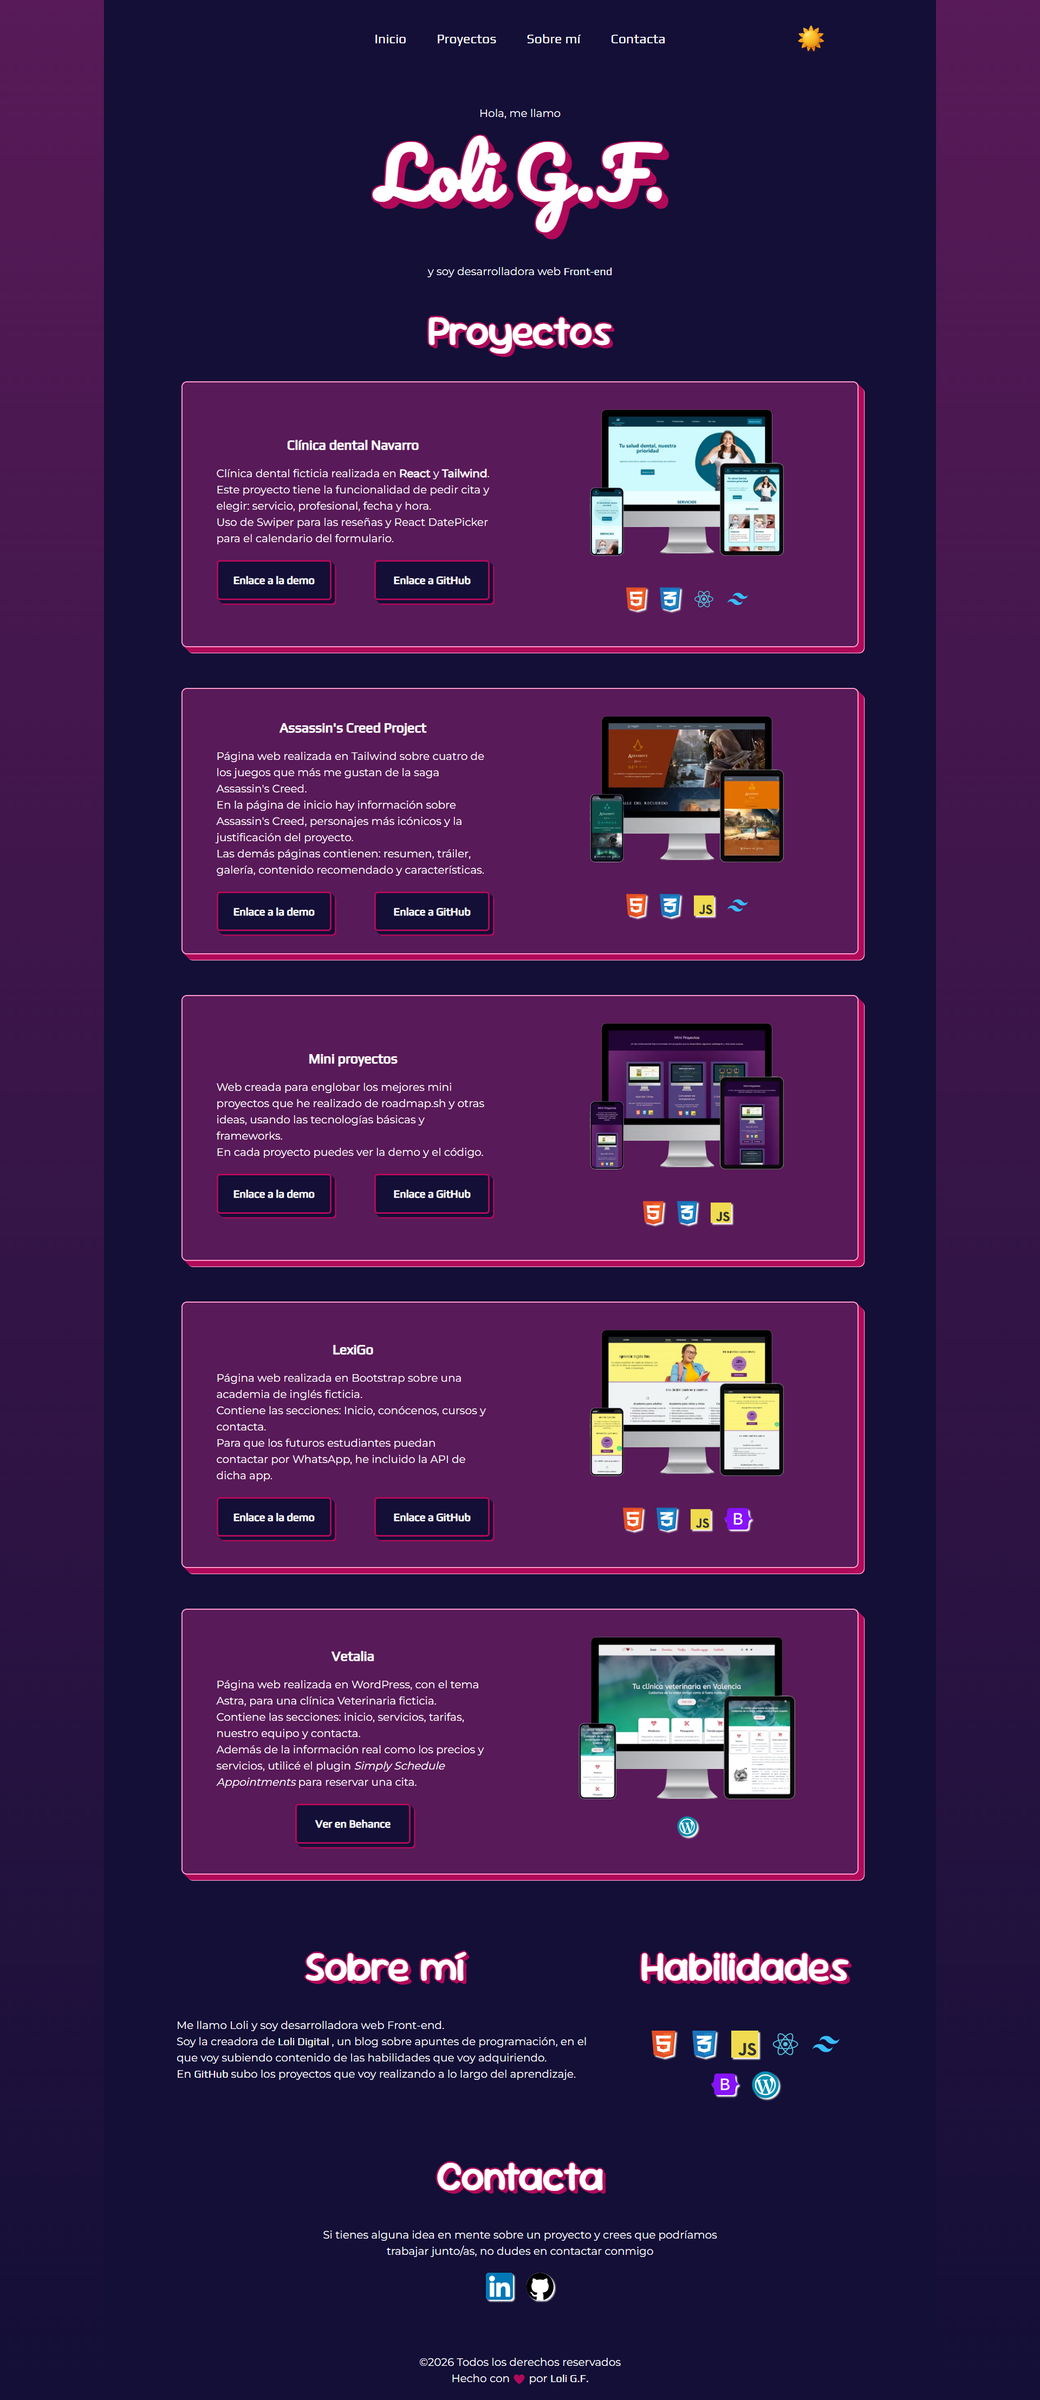
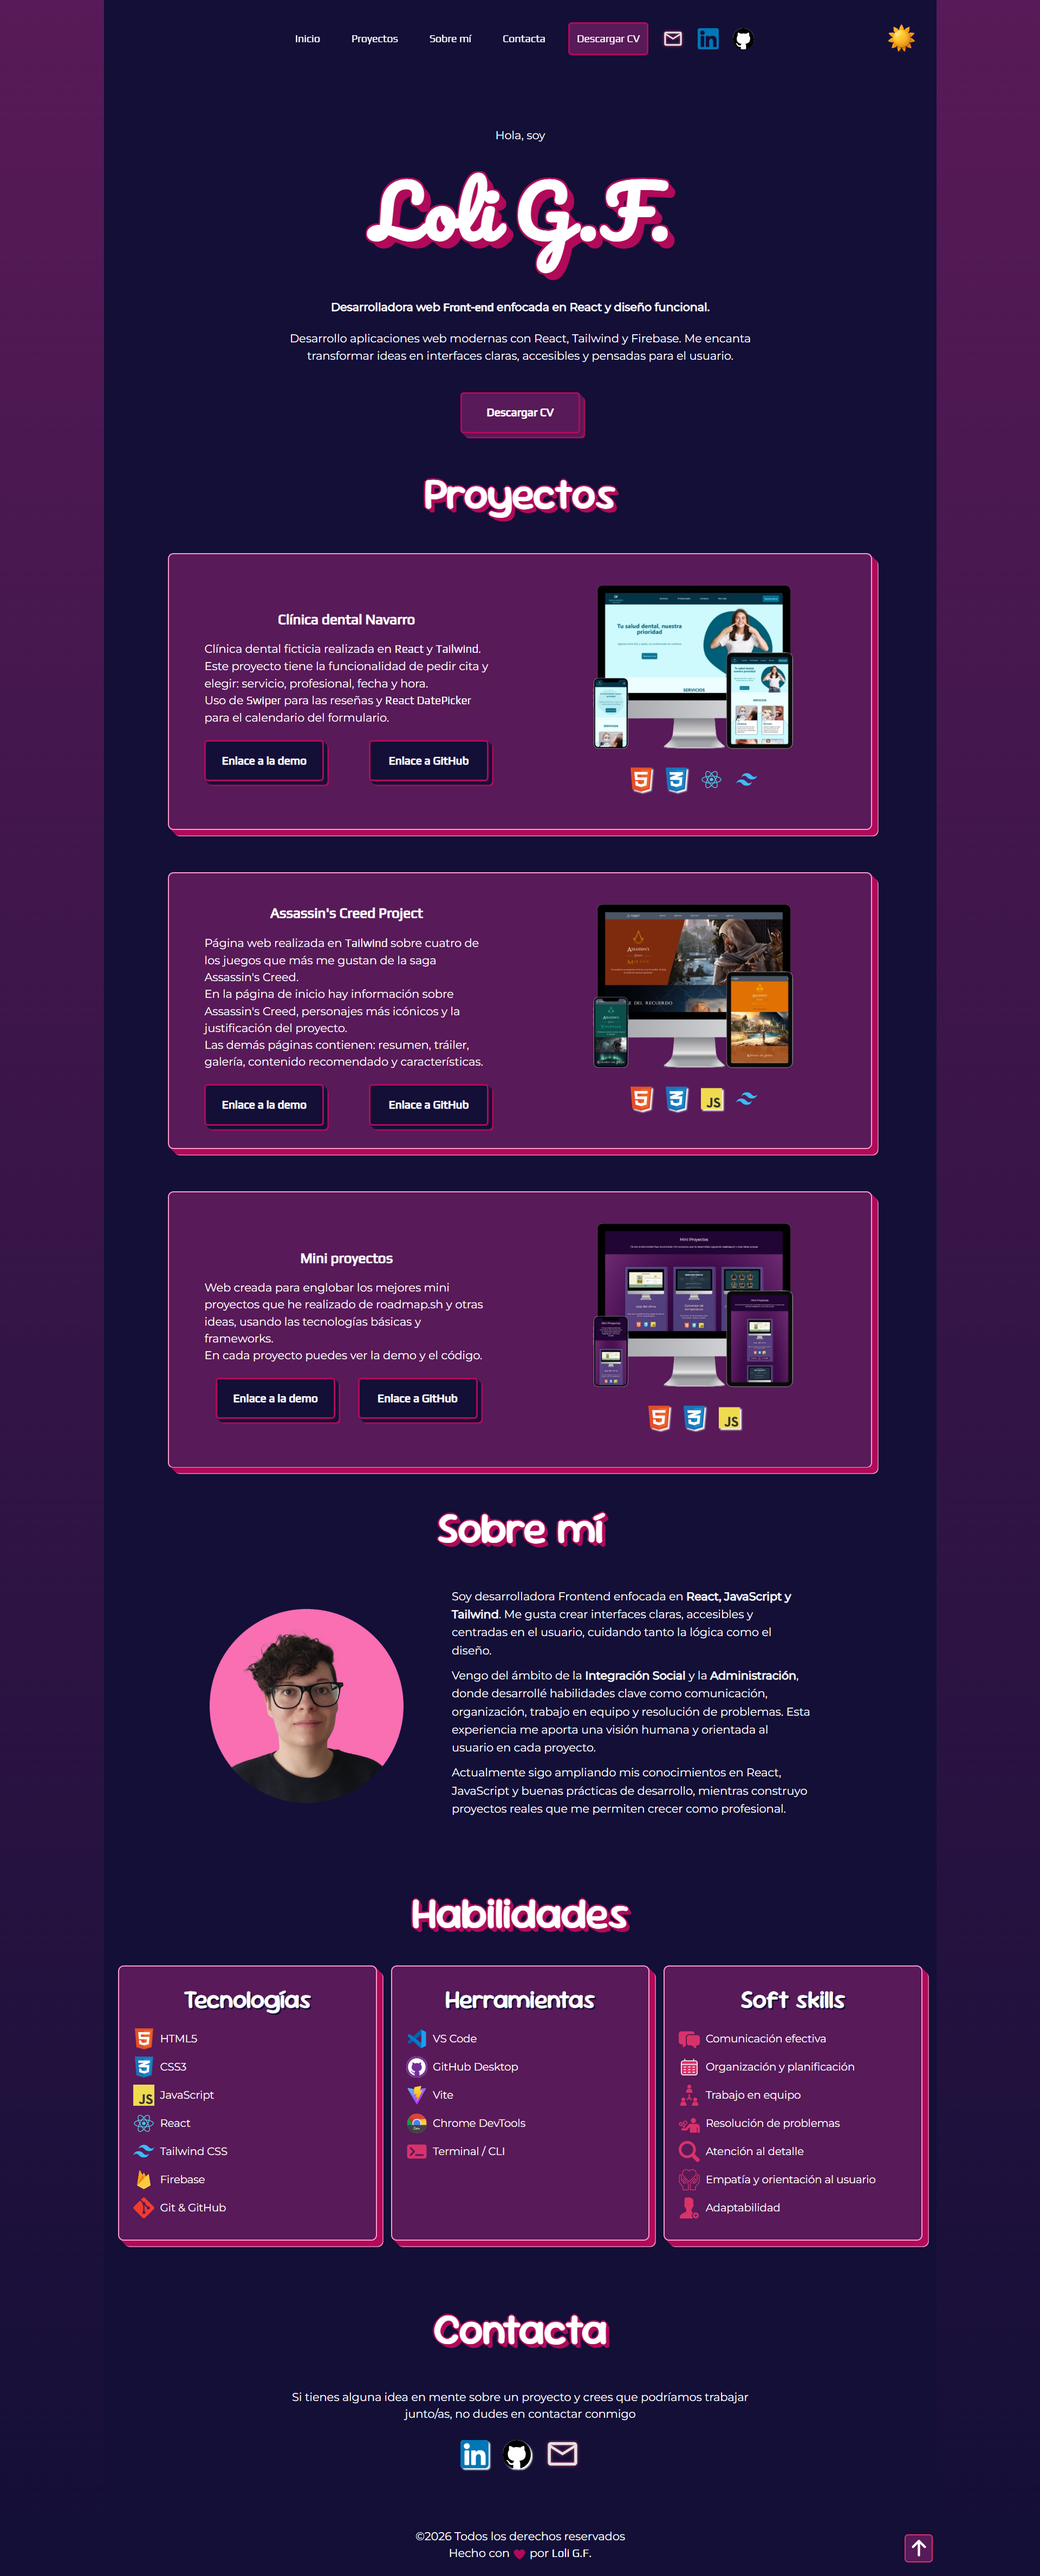
🎨 style: estilos para el menú de navegación responsive + actualización imagen portfolio
- Actualización imagen del portfolio
- Estilos para el menú de navegación responsive (modo móvil y PC)

diff --git a/assets/css/style.css b/assets/css/style.css
@@ -65,11 +65,22 @@
     --shadow-color: #D9326B;
     --link-color: #fff;
     --link-bg-color: #fff;
-    /*--bg-responsive-menu: hsla(300, 54%, 22%, 0.792);*/
 }
 
 body.dark__theme {
     background-image: linear-gradient(var(--color-2), var(--color-3));
+}
+
+.dark__theme .navbar__links>li>a.download__cv--navbar {
+    background-color: var(--color-2);
+    border: 3px solid var(--color-1);
+    color: var(--text-color);
+}
+
+.dark__theme .navbar__links>li>a.download__cv--navbar:hover {
+    border: 3px solid var(--color-border);
+    background-color: var(--color-1);
+    color: var(--link-bg-color);
 }
 
 .dark__theme .link__hover,
@@ -122,6 +133,17 @@ body.dark__theme {
         3px 3px 0px var(--color-3),
         4px 4px 0px var(--color-3),
         5px 5px 0px var(--color-3),
+        6px 6px 0px var(--color-1),
+        7px 7px 0px var(--color-1);
+}
+
+.dark__theme .download__cv {
+    background-color: var(--color-2);
+    box-shadow: 1px 1px 0px var(--color-2),
+        2px 2px 0px var(--color-2),
+        3px 3px 0px var(--color-2),
+        4px 4px 0px var(--color-2),
+        5px 5px 0px var(--color-2),
         6px 6px 0px var(--color-1),
         7px 7px 0px var(--color-1);
 }
@@ -222,29 +244,76 @@ a.link__hover,
 .navbar,
 .navbar__links,
 .button__themes {
+    width: 100%;
     display: flex;
     flex-direction: row;
     align-items: center;
-    justify-content: center;
+    justify-content: space-between;
 }
 
 .navbar {
     width: 100%;
+    justify-content: center;
+}
+
+.navbar__empty {
+    display: flex;
+    align-items: center;
+    justify-content: flex-start;
 }
 
 .navbar__empty,
 .button__themes {
-    width: 75%;
+    width: auto;
 }
 
 .navbar__links {
-    width: 100%;
+    display: flex;
+    align-items: center;
     gap: 2rem;
+    justify-content: flex-start;
+    width: auto;
 }
 
 nav ul li a {
     font-family: var(--font-family-link);
     font-size: 2rem;
+}
+
+.navbar__links>li>a.download__cv--navbar {
+    margin-top: 0;
+    padding: 1rem;
+    display: inline-block;
+    position: relative;
+    background-color: var(--color-1);
+    border-radius: 5px;
+    border: 3px solid var(--shadow-color);
+    color: var(--link-bg-color);
+    transition: all 0.3s ease-in-out;
+    -webkit-transition: all 0.3s ease-in-out;
+    -moz-transition: all 0.3s ease-in-out;
+    -o-transition: all 0.3s ease-in-out;
+}
+
+.navbar__links>li>a.download__cv--navbar:hover {
+    border: 3px solid var(--color-1);
+    background-color: var(--title-color);
+    color: var(--shadow-color);
+}
+
+.logo__navbar {
+    width: 3rem;
+    height: 3rem;
+    object-fit: contain;
+    transition: transform 0.3s ease-in-out;
+}
+
+.logo__navbar:hover {
+    transform: scale(1.2);
+}
+
+.logo__navbar--email {
+    filter: drop-shadow(0px 0px 2px var(--shadow-color));
 }
 
 /*Link hover*/
@@ -269,6 +338,16 @@ a.link__hover:hover {
 }
 
 /*Responsive menu*/
+.btn__close__responsive__menu {
+    display: block;
+    margin-left: 1rem;
+}
+
+.btn__responsive__menu {
+    display: block;
+    margin-left: 1rem;
+}
+
 .btn__responsive__menu,
 .btn__close__responsive__menu {
     display: none;
@@ -280,11 +359,19 @@ a.link__hover:hover {
     filter: invert(100%);
 }
 
+.navbar__hidden {
+    display: flex;
+    align-items: center;
+}
+
 /*Button dark and light mode*/
 
 .button__themes {
-    border: none;
+    display: flex;
+    align-items: center;
+    justify-content: center;
     background-color: transparent;
+    border: none;
 }
 
 .icon__theme {
@@ -317,7 +404,7 @@ a.link__hover:hover {
 
 .header__layout {
     width: 100%;
-    padding-top: 3rem;
+    padding: 3rem 0;
     display: flex;
     flex-direction: column;
     justify-content: center;
@@ -387,16 +474,17 @@ a.link__hover:hover {
 }
 
 /*Button Descargar CV*/
-
-.dark__theme .download__cv {
-    background-color: var(--color-2);
-    box-shadow: 1px 1px 0px var(--color-2),
-        2px 2px 0px var(--color-2),
-        3px 3px 0px var(--color-2),
-        4px 4px 0px var(--color-2),
-        5px 5px 0px var(--color-2),
+.download__cv:hover {
+    border-color: var(--color-1);
+    box-shadow: 1px 1px 0px var(--title-color),
+        2px 2px 0px var(--title-color),
+        3px 3px 0px var(--title-color),
+        4px 4px 0px var(--title-color),
+        5px 5px 0px var(--title-color),
         6px 6px 0px var(--color-1),
         7px 7px 0px var(--color-1);
+    background-color: var(--title-color);
+    color: var(--shadow-color);
 }
 
 /*Logo*/
@@ -631,10 +719,10 @@ a.download__cv {
         6px 6px 0px var(--shadow-color),
         7px 7px 0px var(--shadow-color);
     color: var(--link-bg-color);
-    transition: all 0.5s ease-in-out;
-    -webkit-transition: all 0.5s ease-in-out;
-    -moz-transition: all 0.5s ease-in-out;
-    -o-transition: all 0.5s ease-in-out;
+    transition: all 0.3s ease-in-out;
+    -webkit-transition: all 0.3s ease-in-out;
+    -moz-transition: all 0.3s ease-in-out;
+    -o-transition: all 0.3s ease-in-out;
 }
 
 .article__project:last-child a.project__link {
@@ -771,7 +859,7 @@ a.project__link:hover {
     fill: var(--shadow-color);
 }
 
-.skills__block li:nth-child(2){
+.skills__block li:nth-child(2) {
     stroke: var(--text-color);
 }
 

diff --git a/assets/css/media-queries.css b/assets/css/media-queries.css
@@ -83,8 +83,52 @@
   }
 }
 
+/* Navbar sticky solo en escritorio */
+@media (min-width: 768px) {
+  .dark__theme .header__layout {
+    background: rgba(19, 15, 55, 0.9);
+  }
+
+  .header__layout {
+    position: sticky;
+    top: 0;
+    z-index: 1000;
+    /* From https://css.glass */
+    background: rgba(173, 216, 230, 0.9);
+    backdrop-filter: blur(5px);
+    -webkit-backdrop-filter: blur(5px);
+  }
+}
+
 /*Responsive menu*/
 @media screen and (max-width: 768px) {
+
+  .header__nav {
+    display: flex;
+    justify-content: flex-end;
+    align-items: center;
+  }
+
+  .navbar__empty {
+    display: flex;
+    justify-content: flex-start;
+    order: 1;
+  }
+
+  .btn__responsive__menu,
+  .btn__close__responsive__menu {
+    display: flex;
+    justify-content: flex-end;
+    border: none;
+    background-color: transparent;
+    cursor: pointer;
+    padding: 0.5rem;
+  }
+
+  .btn__responsive__menu {
+    order: 2;
+    margin-left: auto;
+  }
 
   .navbar {
     padding: 2rem;
@@ -116,13 +160,8 @@
     align-items: end;
   }
 
-  .btn__responsive__menu,
-  .btn__close__responsive__menu {
-    margin-left: auto;
-    display: flex;
-    justify-content: flex-end;
-    border: none;
-    background-color: transparent;
+  .navbar__hidden {
+    display: none;
   }
 
   .button__themes {
@@ -184,12 +223,20 @@
   }
 
   .button__themes {
-    width: 20%;
+    width: 15%;
   }
 
-  .navbar__empty,
+  .navbar__links {
+    gap: 1rem;
+  }
+
+  .navbar__links .link__hover,
+  .navbar__links .download__cv--navbar {
+    font-size: 1.5rem;
+  }
+
   .header__toggle {
-    width: 20%;
+    width: 10%;
   }
 
   .hero__section h2,
@@ -274,6 +321,16 @@
     width: 80%;
   }
 
+  .navbar__empty,
+  .button__themes {
+    width: 10%;
+  }
+
+  .navbar__links .link__hover,
+  .navbar__links .download__cv--navbar {
+    font-size: 2rem;
+  }
+
   .hero__section {
     margin-top: 7rem;
   }
@@ -355,11 +412,6 @@
 }
 
 @media (1025px <=width <=1416px) {
-
-  .navbar__empty,
-  .button__themes {
-    width: 20%;
-  }
 
   .main__projects {
     max-width: 85%;
